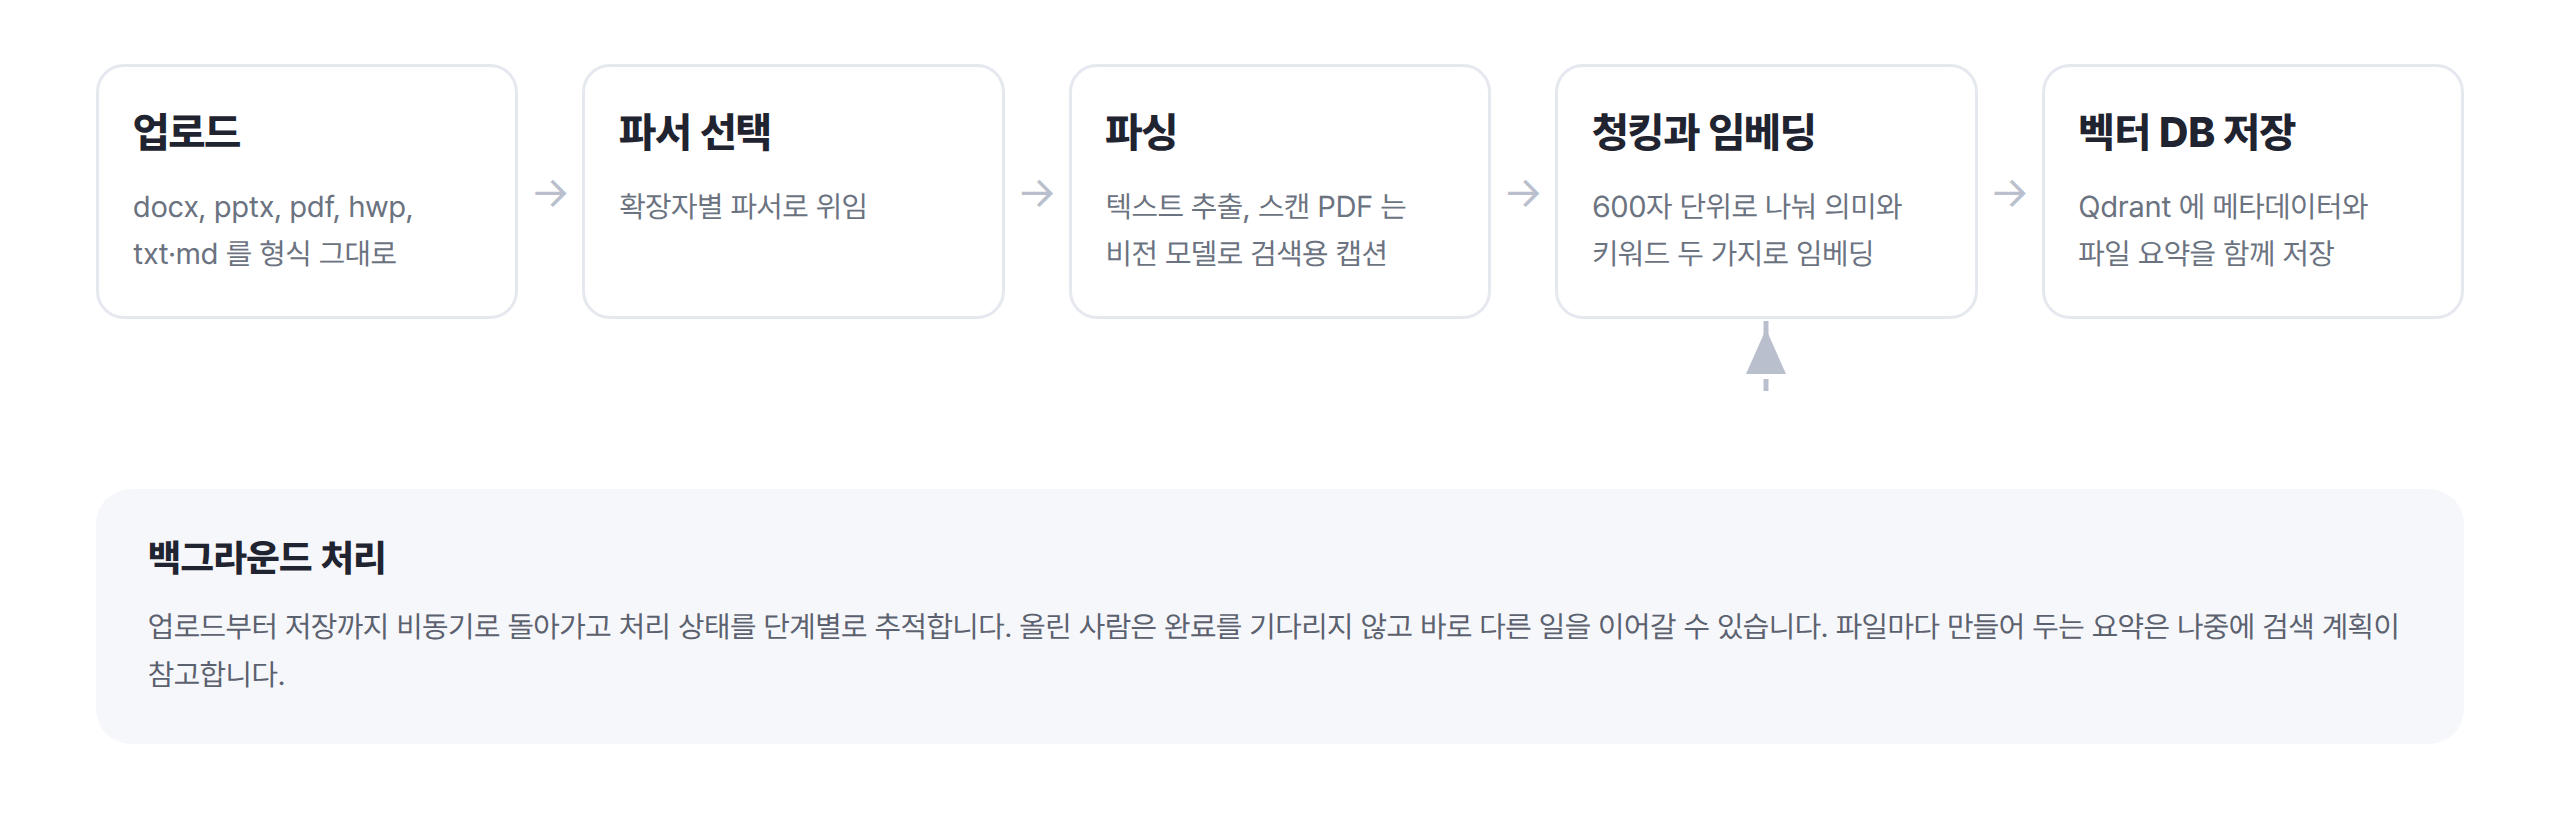
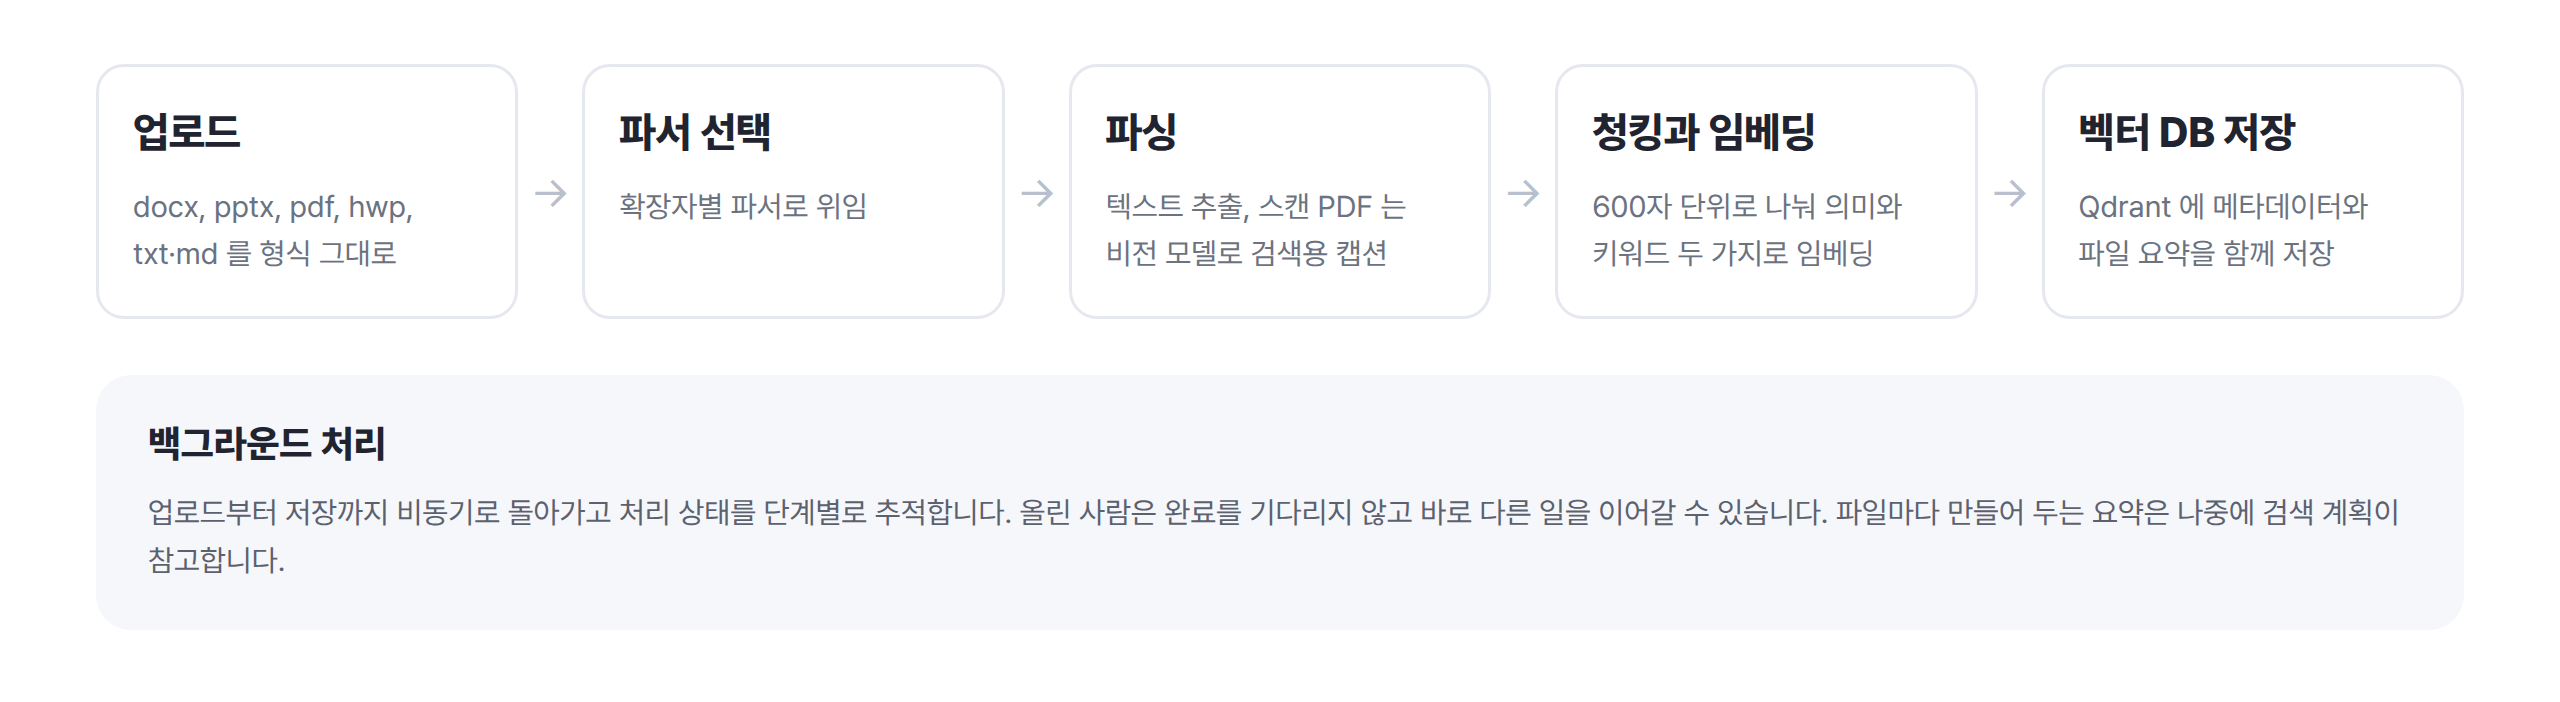
content(ai-platform): 다이어그램 모양을 다듬고 nginx 줄을 뺀다
페이지에 올려 놓고 보니 세 가지가 걸렸다.

- 서비스 구성: nginx 줄을 뺀다. 아래 저장소 줄이 화면 폭의 절반만 써서 카드가
  좁았고 글자가 어중간하게 끊겼다. 두 묶음을 전체 폭으로 펴고 어느 서비스가
  쓰는지 묶음 머리에 적는다. 캡션도 그림에 맞춰 "서비스 구성" 으로 줄인다
- 에이전트 그래프: 범례가 WebpageTools 박스와 겹쳐 아래로 내린다
- 지식 파이프라인: 쓰지 않는 되돌이 화살표 토막이 남아 있어 걷는다

diff --git a/src/content/builds.ts b/src/content/builds.ts
@@ -296,7 +296,7 @@ export const builds: Build[] = [
       { type: 'paragraph', text: 'RAG 기반 사내 챗봇으로 시작해, 지금은 웹 검색과 코드 실행, 문서 생성, 여러 출처를 교차 확인해 보고서를 쓰는 딥리서치까지 하나의 채팅에서 처리하는 사내 AI 플랫폼으로 발전시켰습니다.' },
       { type: 'paragraph', text: '2026년 4월에 사내에 오픈해 운영 중입니다. 오픈 이후에도 실제 질문 로그와 사용자 피드백을 보며 기능을 더하고 구조를 고치는 일을 계속하고 있습니다.' },
       { type: 'heading', text: '아키텍처' },
-      { type: 'image', src: '/projects/ai-platform/159.png', alt: 'AI 플랫폼 아키텍처 다이어그램', caption: '서비스 구성 - 프론트엔드, BFF, AI 서버' },
+      { type: 'image', src: '/projects/ai-platform/159.png', alt: 'AI 플랫폼 아키텍처 다이어그램', caption: '서비스 구성' },
       { type: 'paragraph', text: 'Next.js 프론트엔드, Express BFF, Python/FastAPI AI 서버의 세 영역으로 분리해 각각 독립 서비스로 운영합니다. AI 서버는 LangGraph 에이전트와 임베딩 파이프라인, LLM 호출을 맡고, 문서 생성과 코드 실행은 별도의 격리 샌드박스 컨테이너에서 돌아갑니다.' },
       { type: 'paragraph', text: 'AI 서버 안에서 요청은 LangGraph 기반 에이전트 그래프로 처리됩니다. MainAgent가 도구를 반복해 호출하는 단일 ReAct 루프이고, 사내 지식 검색과 프로젝트 파일 검색도 별도 노드가 아니라 에이전트가 호출하는 도구입니다.' },
       { type: 'paragraph', text: '자체 루프가 필요한 것만 따로 떼어 두었습니다. 웹페이지 생성은 만들고 렌더링해 확인한 뒤 고치는 과정을 반복해야 해서 메인 그래프의 별도 노드로 분리했고, 딥리서치는 하위질문을 나눠 반복 조사하는 자체 그래프를 도구 안에서 돌립니다. 웹 검색은 전담 에이전트를 두지 않고 MainAgent가 결과를 보고 쿼리를 다시 짜게 했습니다.' },

diff --git a/src/content/imageDims.ts b/src/content/imageDims.ts
@@ -19,7 +19,7 @@ export const imageDims: Record<string, { w: number; h: number }> = {
   '/projects/ai-platform/131.png': { w: 3840, h: 2160 },
   '/projects/ai-platform/132.png': { w: 2880, h: 1800 },
   '/projects/ai-platform/133.png': { w: 2880, h: 1800 },
-  '/projects/ai-platform/159.png': { w: 2560, h: 1006 },
+  '/projects/ai-platform/159.png': { w: 2560, h: 734 },
   '/projects/ai-platform/16.png': { w: 2880, h: 1800 },
   '/projects/ai-platform/163.png': { w: 2880, h: 1800 },
   '/projects/ai-platform/167.png': { w: 2880, h: 1800 },
@@ -30,7 +30,7 @@ export const imageDims: Record<string, { w: number; h: number }> = {
   '/projects/ai-platform/172.png': { w: 2520, h: 1417 },
   '/projects/ai-platform/173.png': { w: 2520, h: 1417 },
   '/projects/ai-platform/174.png': { w: 2520, h: 1417 },
-  '/projects/ai-platform/175.png': { w: 2560, h: 816 },
+  '/projects/ai-platform/175.png': { w: 2560, h: 702 },
   '/projects/ai-platform/179.png': { w: 2560, h: 2574 },
   '/projects/ai-platform/180.png': { w: 2880, h: 1800 },
   '/projects/ai-platform/181.png': { w: 2880, h: 1800 },
